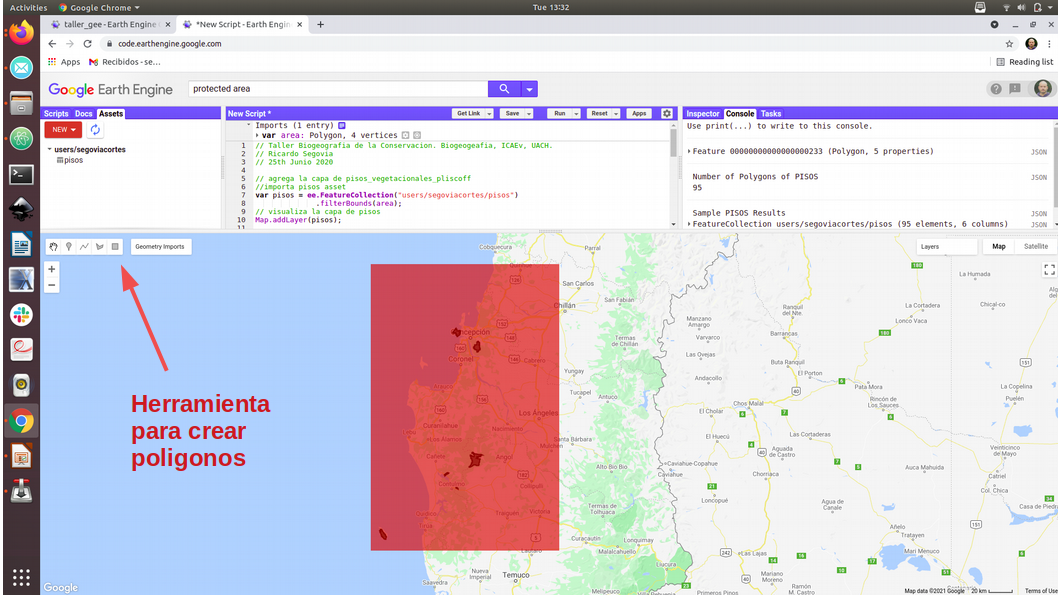
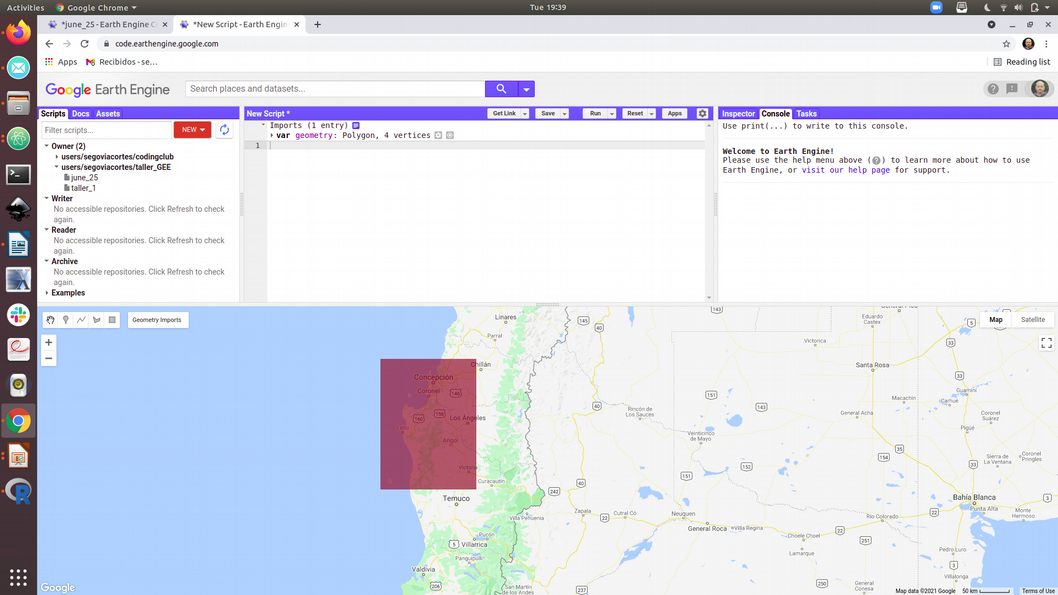
vs6

diff --git a/_posts/2020-05-06-tutorialGEE.md b/_posts/2020-05-06-tutorialGEE.md
@@ -39,7 +39,7 @@ __Desde el motor de Google Earth, puedes exportar archivos `.csv` de los valores
 
 __Con GEE es posible responder a preguntas de investigación de escala regional y global, o que requieren gran cantidad de datos geoespaciales, de una manera eficiente que antes no era posible. Más adelante veremos cómo explorar los conjuntos de datos con los que se puede trabajar en el GEE. También es posible importar tus propias imágenes georreferenciadas (como las fotos de las misiones de los drones).__ Puedes averiguar cómo importar tus propios datos rasterizados desde [esta página](https://developers.google.com/earth-engine/image_upload) en el sitio web de los desarrolladores del GEE.
 
-Por ejemplo, puede clasificar diferentes tipos de cobertura del suelo, puede calcular y extraer valores de características del paisaje como [NDVI](https://en.wikipedia.org/wiki/Normalized_difference_vegetation_index) (Índice de Vegetación de Diferencia Normalizada) para el mundo, una región particular de interés, o muchas áreas diferentes alrededor del mundo. En realidad, las posibilidades son enormes, y aquí sólo estamos arañando la superficie al dar un ejemplo de cómo se puede utilizar la GEE para calcular el porcentaje de cada piso vegetacional protegido en el sistema de areas protegidas de Chile.
+Por ejemplo, puedes clasificar diferentes tipos de cobertura del suelo, puede calcular y extraer valores de características del paisaje como [NDVI](https://en.wikipedia.org/wiki/Normalized_difference_vegetation_index) (Índice de Vegetación de Diferencia Normalizada) para el mundo, una región particular de interés, o muchas áreas diferentes alrededor del mundo. En realidad, las posibilidades son enormes, y aquí sólo estamos arañando la superficie al dar un ejemplo de cómo se puede utilizar la GEE para calcular el porcentaje de cada piso vegetacional protegido en el sistema de areas protegidas de Chile.
 
 __Puedes consultar los tutoriales en el [sitio web de Google Earth Engine Developers](https://developers.google.com/earth-engine/) si quieres aprender más y practicar tus habilidades con GEE.__
 
@@ -58,7 +58,7 @@ _Tómate un momento para familiarizarte con la interfaz del editor de Earth Engi
 
 __Google Earth Engine usa [JavaScript](https://en.wikipedia.org/wiki/JavaScript) como lenguaje de programación.__
 
-Al igual que ocurre con otros lenguajes de programación, existe apoyo en línea: puedes buscar en Google "tutoriales sobre `JavaScript` y Earth Engine" (siempre hay mas alternativas en ingles!). Al principio todo te parecerá poco familiar, pero gracias a la comunidad de programadores en línea, es muy raro que empieces a escribir un script completamente de cero.
+Al igual que ocurre con otros lenguajes de programación, existe apoyo en línea: puedes buscar en Google "tutoriales sobre `JavaScript` y Earth Engine" (siempre hay mas alternativas en inglés!). Al principio todo te parecerá poco familiar, pero gracias a la comunidad de programadores en línea, es muy raro que empieces a escribir un script completamente de cero.
 
 Aprenderás más sobre la sintaxis y las funciones de `JavaScript` a medida que avancemos en el tutorial, pero por ahora, aquí tienes algunas notas:
 
@@ -126,19 +126,23 @@ __Qué porcentaje de cada piso vegetacional esta presente dentro del sistema de 
 
 ## Importar y explorar un conjunto de datos en el GEE - pisos vegetacionales
 
-Ahora vamos a importar manualmente un conjunto de datos que no esta disponible en GEE. Descarga en el siguiente link los archivos necesarios para importar la [Clasificacion de Pisos de Vegetación Luebert Pliscoff](http://datos.cedeus.cl/layers/geonode:pisos_vegetacionales_pliscoff). Luego importalos en Assets>New, y sube los archivos asociados al .shp.
+Primero, vamos a limpiar nuestros scripts. Vamos a la ventana del medio y aprieten la flecha de la pestaña reset. Luego marquen clear script.
+
+Ahora vamos a importar manualmente un conjunto de datos que no esta disponible en GEE. Descarga en el siguiente link los archivos necesarios para importar la [Clasificacion de Pisos de Vegetación Luebert Pliscoff](http://datos.cedeus.cl/layers/geonode:pisos_vegetacionales_pliscoff). Descargar capa y luego descargar el shape comprimido. Luego los importamos en Assets>New, y sube los archivos asociados al .shp.
 
 ![Earth Engine data product information screenshot]({{ site.baseurl }}/images/assets.png)
 
 __Llama al objeto `pisos`, o lo que quieras, pero recuerda que si lo llamas de otra manera, tienes que cambiar `pisos` por tu nuevo nombre en todo el código que viene. A continuación, volveremos a mapear nuestro conjunto de datos.__
 
-Hacer este analisis para todo Chile toma mucho tiempo, asi que vamos a tomar muestras espaciales para discutir los resultados, yo voy a escoger la costa de la Region del Bio Bio, ustedes pueden escoger la que mas les interese.
+Hacer este analisis para todo Chile toma mucho tiempo, asi que vamos a tomar muestras espaciales para discutir los resultados, yo voy a escoger la costa de la Region del Bio Bio, ustedes pueden escoger la que mas les interese. No olvides llamar a poligono "area", su nombre por defecto es "geometry".
 
 ![Earth Engine data product information screenshot]({{ site.baseurl }}/images/areas2.png)
 
 ```javascript
 // agrega la capa de pisos_vegetacionales_pliscoff restringida a tu area de interes
 //importa pisos asset
+// Reemplaza segoviacortes, que es mu usuariom por el tuyo. Si no
+// lo recuerdas, puedes verlo en la pestana de scripts.
 var pisos = ee.FeatureCollection("users/segoviacortes/pisos")
               .filterBounds(area);
 // visualiza la capa de pisos
